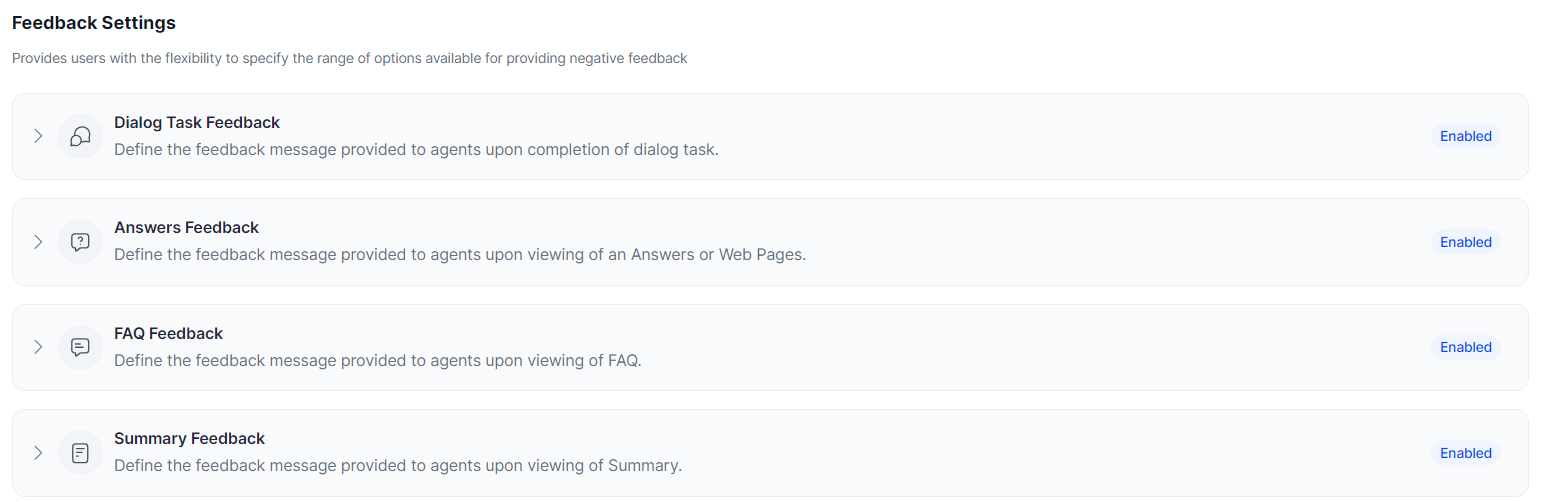
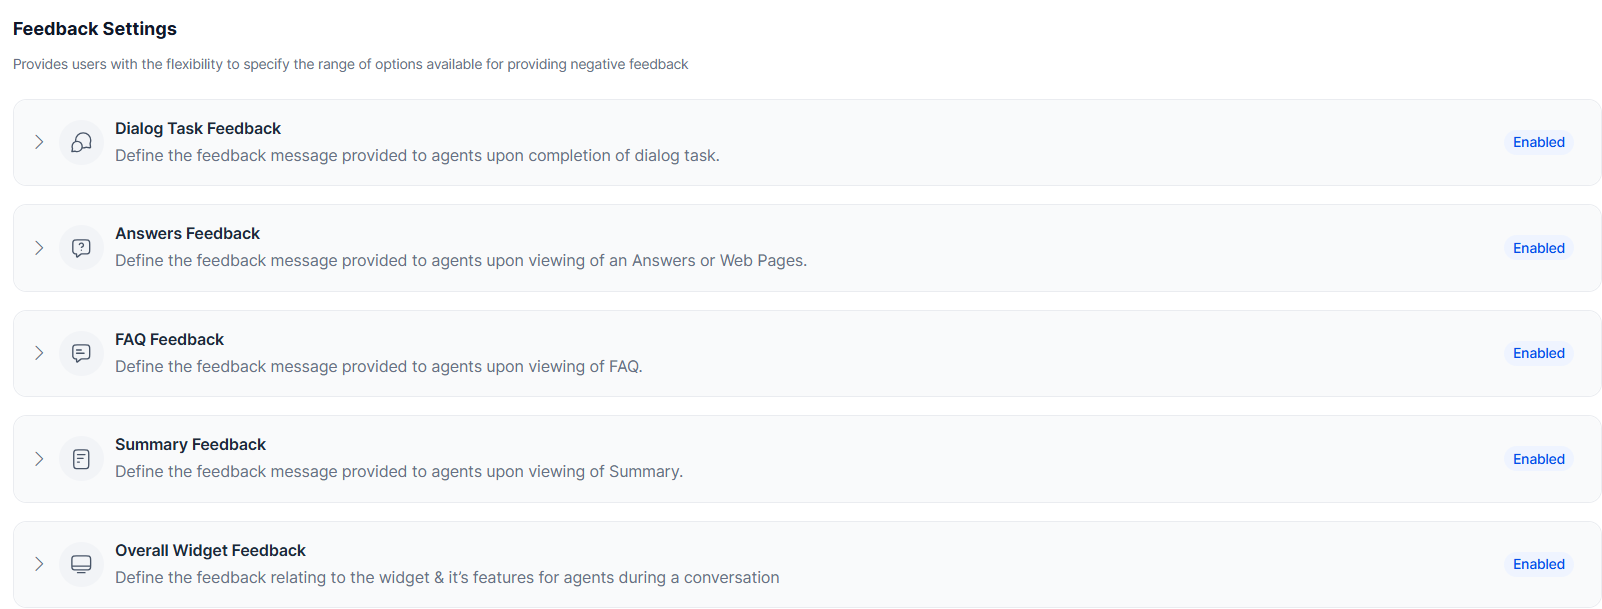
RN_11.17.0 updates

diff --git a/docs/xo/analytics/contact-center/agentai-dashboard.md b/docs/xo/analytics/contact-center/agentai-dashboard.md
@@ -1,15 +1,15 @@
-# **Overview**
+# Agent AI Widget Dashboard Overview
 
-The Agent AI Dashboard displays performance metrics of the Agent AI widget and the behavioral trends of the end users (agents and customers). You can filter data by channel or time period. Metrics include total sessions, widget suggestions, relevant suggestions, average widget suggestions used per session, help content and automations agents used to resolve customer issues, search behavior of agents, automation performance results, and agent feedback via likes and dislikes.
+The Agent AI Dashboard displays performance metrics of the Agent AI widget and the behavioral trends of the end users (agents and customers). You can filter data by channel or time period. Metrics include total sessions, widget suggestions, relevant suggestions, average widget suggestions used per session, help content and automation agents used to resolve customer issues, search behavior of agents, automation performance results, agent feedback via likes and dislikes, and the overall widget performance feedback (satisfied and unsatisfied percentage).
 
-To view the Dashboard, sign in to platform, and click **Agent AI** > **Analytics** > **Contact Center** > **Agent AI**.  
+To view the Dashboard, sign in to [platform](https://platform.kore.ai/){:target="_blank"}, and click **Agent AI** > **Analytics** > **Contact Center** > **Agent AI**.  
 <img src="../agentai-dashboard-images/agent-ai-dashboard-1.png" alt="agent-ai-dashboard" title="agent-ai-dashboard" style="border: 1px solid gray; zoom:80%;">
 
-# **Dashboard Filters**
+# Dashboard Filters
 
 The Agent AI Dashboard lets you filter the dashboard data over a period of time and of a specific channel.
 
-## **Filter by Time Period**
+## Filter by Time Period
 
 You can filter data based on a selected time duration. Click the **Calendar** icon at the top, select one of the options from the list, and then click **Apply**.  
 <img src="../agentai-dashboard-images/dashboard-filters-2.png" alt="dashboard-filters" title="dashboard-filters" style="border: 1px solid gray; zoom:80%;">
@@ -21,46 +21,46 @@ You can filter data based on a selected time duration. Click the **Calendar** ic
 * **Last 30 Days**: Data of the last 30 days.
 * **Custom Range**: Data of the selected “From” and “To” dates. This duration shouldn’t exceed 60 days.
 
-## **Filter by Channel**
+## Filter by Channel
 
 The default setting of the Agent AI Dashboard shows the combined data of all three channels – Voice, Chat, and Email. To filter data by channel, click the **All Channels** button on the top-right corner, and then click against a channel to select or clear it from the dropdown list.  
 <img src="../agentai-dashboard-images/dashboard-channel-filters-3.png" alt="dashboard-channel-filters" title="dashboard-channel-filters" style="border: 1px solid gray; zoom:60%;">
 
-### **Data on Widget Performance and Agent/Customer Behavior**
+### Data on Widget Performance and Agent/Customer Behavior
 
 This section lets you view and filter the Agent AI Widget’s performance data.
 
-## **Total Sessions**
+## Total Sessions
 
 It indicates the total number of uninterrupted interactions between the AI Agents and the end user (customer or agent) over a selected time period on a selected channel. Each session has been set for 15 minutes. If a session lasts beyond 15 minutes but less than 30 minutes, it gets calculated as two sessions. The red superscripted percentage with an arrow symbol indicates a decrease, and the green one indicates an increase in the percentage of number of sessions over a selected time period over a previous session. For example, a number 532 and a 5.2% with a red downwards arrow implies 532 sessions over the interval shown (say, a week) and a 5.2% decrease over the previous week.  
 <img src="../agentai-dashboard-images/dashboard-total-sessions-4.png" alt="dashboard-total-sessions" title="dashboard-total-sessions" style="border: 1px solid gray; zoom:40%;">
 
-## **Total Suggestions**
+## Total Suggestions
 
 It indicates the total number of suggestions from the Agent AI Widget (for example, “ask customer” and “tell customer”) to the agent. These suggestions include answers, automations, and FAQs. The red and green percentages indicate a decrease and increase in numbers, similar to the [Total Sessions](#total-sessions) section.  
 <img src="../agentai-dashboard-images/dashboard-total-suggestions-5.png" alt="dashboard-total-suggestions" title="dashboard-total-suggestions" style="border: 1px solid gray; zoom:60%;">
 
-## **Relevant Suggestions**
+## Relevant Suggestions
 
 The percentage of suggestions used by agents. This number is derived by dividing the total suggestions used by agents with the total suggestions, multiplied by 100.  
 <img src="../agentai-dashboard-images/dashboard-relevant-suggestions-6.png" alt="dashboard-relevant-suggestions" title="dashboard-relevant-suggestions" style="border: 1px solid gray; zoom:40%;">
 
-## **Average Suggestions Used per Session**
+## Average Suggestions Used per Session
 
 The average number of suggestions used per each session. This number is derived by dividing the total number of Agent AI Widget suggestions by the number of sessions.  
 <img src="../agentai-dashboard-images/dashboard-average-suggestions-used-7.png" alt="dashboard-average-suggestions-used" title="dashboard-average-suggestions-used" style="border: 1px solid gray; zoom:80%;">
 
-## **What are Your Customers Looking for**
+## What are Your Customers Looking for
 
 This section shows which Answers, FAQs, Dialogue Tasks, web suggestions, and other data sources are used to fulfill a customer’s needs. This list appears in popularity order–the most used item appears at the top. You can filter data based on values as All, Agent Initiated, and Agent AI Suggested values, with the default selection being All. You have four tabs at the top–All, Answers, FAQs, Automations, and Others–with All being the default tab. Click the respective tabs to view the top four Answers, FAQs, Automations, or others. Each item on the list has a number on its right that indicates the number of times that item has been invoked or used, and the percentage value is the number of times invoked or used divided by the number of times invoked for each tab.  
 <img src="../agentai-dashboard-images/dashboard-what-are-customers-looking-for-8.png" alt="what-are-customers-looking-for" title="what-are-customers-looking-for" style="border: 1px solid gray; zoom:60%;">
 
-## **What are your Agents looking for**
+## What are your Agents looking for
 
 This section shows what the agents are searching for. Agent AI gets this data through the **Ask a question** search box. Every time an agent enters an item in this search box, Agent AI records the data. The **Total Search Requests** shows the number of times agents have had search requests. The green and red percentage colors with an arrow symbol are similar to the [Total Sessions](#total-sessions) section. By default, the data is displayed in WordCloud, and you can change it to Tabular form.  
 <img src="../agentai-dashboard-images/dashboard-what-are-agents-looking-for-9.png" alt="what-are-agents-looking-for" title="what-are-agents-looking-for" style="border: 1px solid gray; zoom:80%;">
 
-## **Automation Performance**
+## Automation Performance
 
 This section shows the performance results (successfully completed, error encountered, terminated, etc.) of all Agent AI automations. The data is represented on a pie chart. To read the data, use the following pointers:
 
@@ -70,7 +70,7 @@ This section shows the performance results (successfully completed, error encoun
 * On the right, you find the total number and percentage out of the sum total for each item.  
 <img src="../agentai-dashboard-images/dashboard-automation-performance-data-10.png" alt="automation-performance-data" title="automation-performance-data" style="border: 1px solid gray; zoom:80%;">
 
-## **Agent Feedback**
+## Agent Feedback
 
 This section shows the top three most disliked automations by agents in descending order of dislike percentage. Agent AI gets this data by capturing the likes or dislikes at the end of a dialog task. You can have a detailed summary of Agent Feedback for dialog tasks, including “Not Helpful” feedback and Additional Comments. The detailed view of the “Not Helpful” feedback includes Responses, Additional Comments, and Counts. You must click **View All** to view further details of a dialog task.
 
@@ -82,8 +82,26 @@ This section shows the top three most disliked automations by agents in descendi
 * If the agent’s name is provided, the agent column appears for searching; otherwise, the conversation ID is available.  
 <img src="../agentai-dashboard-images/dashboard-agent-feedback-data-11.png" alt="agent-feedback-data" title="agent-feedback-data" style="border: 1px solid gray; zoom:80%;">
 
-## **Average Widget Usage (Third-Party Agent Desktop)**
+## Average Widget Usage (Third-Party Agent Desktop)
 
 This feature gives a graphical representation of the average amount of time agents spend on the Agent AI widget and is applicable only for the third-party agent desktops. You can use the Compare button to compare the data you have selected for a time period in an “n-1” formula. For example, if you have selected “30 days,” last 30 days’ data is compared with the previous 30 days’ data.  
 <img src="../agentai-dashboard-images/average-widget-usage-12.png" alt="average-widget-usage" title="average-widget-usage" style="border: 1px solid gray; zoom:80%;">
+
+## Overall Widget Feedback
+
+The **Overall Widget Feedback** section provides a summary of agent feedback on the Agent AI widget. It shows the Total Feedback, Participation Rate percentage, and the Satisfied versus Unsatisfied feedback percentage. At the individual conversation level, it provides details such as agent names, feedback reasons, comments, and conversation transcripts. This information helps administrators monitor agent experience, track areas where the widget performs well, and prioritize improvements to enhance usability and effectiveness.  
+<img src="../agentai-dashboard-images/Dashboard-overall-widget-feedback.png" alt="Dashboard-overall-widget-feedback" title="Dashboard-overall-widget-feedback" style="border: 1px solid gray; zoom:80%;">  
+
+In the above screenshot:  
+
+* The first section on the left shows the total number of agent feedback responses for the selected time period, along with the number and percentage of satisfied and unsatisfied feedback. Hovering over the color-coded chart (yellow for unsatisfied and green for satisfied) displays the same details. The percentages are calculated using the following formulas:
+    * **Unsatisfied**(%) = (Total unsatisfied feedback ÷ Total feedback) × 100
+    * **Satisfied**(%) = (Total satisfied feedback ÷ Total feedback) × 100
+* The second section on the top-right shows the Participation Rate, Satisfied, and Unsatisfied percentages. Note that you must count multiple feedback entries for a conversation as one while calculating the Participation Rate percentage. The formula is:
+    * **Participation Rate** (%) = (Conversations with feedback ÷ Total conversations) x 100
+* The third section shows conversation IDs, the number of agent feedback responses, and the percentage of satisfied and unsatisfied feedback for each conversation.
+    * To view the details of a conversation, click the **external link icon** next to a conversation ID.  
+     <img src="../agentai-dashboard-images/dashboard-conversation-details.png" alt="Dashboard-conversation-details" title="Dashboard-conversation-details" style="border: 1px solid gray; zoom:80%;">  
+    * Details such as agent name, selected feedback reason, and added comments display along with the actual conversation:  
+        <img src="../agentai-dashboard-images/dashboard-conversationid-level-feedback-details.png" alt="dashboard-conversationid-level-feedback-details" title="dashboard-conversationid-level-feedback-details" style="border: 1px solid gray; zoom:80%;">
 

diff --git a/docs/xo/agentai/configuration/feedback-settings.md b/docs/xo/agentai/configuration/feedback-settings.md
@@ -1,73 +1,65 @@
 
-# Feedback Settings
+# Feedback Settings 
 
-For improved processing and accurate identification of reasons for receiving a “thumbs down”, Admins can now configure a list of negative feedback messages for agents to choose from. They can also include a comment box for agents to add additional comments. These options appear in the widget after agents click the “thumbs down” icon at the end of a Dialog Task, after each answer and FAQ, and after the automatic summary generation. Admins can also change the feedback message language by selecting one from the available language list.
+The Feedback Settings section lets you configure how agents provide feedback on the Agent AI widget. It includes two types of feedback: 
 
-When agents click the “thumbs down” icon, they get a list of predefined feedback messages and a comment box to add any additional input. Admins configure these messages, select their language, and decide whether these messages and comment boxes appear on the widget.
+* **Context-Specific Feedback**: Configure up to six predefined negative feedback messages for Dialog Tasks, Answers, FAQs, and Summaries, but enable only five per subsection at a time. To enable a sixth, you must first disable another. These options appear in the widget after agents select the “thumbs down” icon. You can edit these messages (limited to 25 words each), include a comment box for any additional input, and set the display language.  
+* **Overall Widget Feedback**: Configure up to six positive and six negative feedback messages, but enable only five from each category at a time. To enable a sixth, you must first disable another. You can also choose to display or hide an additional comment box and select a display language. By default, this feature remains in disabled status.  
 
 ## **Configure Feedback Messages**
 
-The Feedback Settings section has four subsections – Dialog Task Feedback, Answers Feedback, FAQ Feedback, and Summary Feedback – and each of these subsections comprises six feedback messages. You can edit these feedback messages by clicking the “edit” button against any of the default feedback messages. Note that the feedback messages should be limited to 25 words only.
+The Feedback Settings section has five subsections–Dialog Task Feedback, Answers Feedback, FAQ Feedback, Summary Feedback, and Overall Widget Feedback. These subsections include predefined feedback messages, which you can edit by clicking the “edit” button next to them. 
 
 ### **Steps to Configure Feedback Messages**
 
 1. Sign in to **XO Platform**.
 2. Go to **Agent AI** > **Configuration** > **Feedback Settings**.
     <img src="../feedback-settings-images/feedback-settings-main-page-1.png" alt="feedback-settings-main-page" title="feedback-settings-main-page" style="border: 1px solid gray; zoom:80%;">
-3. Click to expand any subsection – **Dialog Task Feedback**, **Answers Feedback**, **FAQ Feedback**, or **Summary Feedback**.
-4. Click the “edit” icon against any feedback message.
+3. Click to expand any subsection – **Dialog Task Feedback**, **Answers Feedback**, **FAQ Feedback**, **Summary Feedback**, or **Overall Widget Feedback**.
+4. Use the toggle to enable or disable the selected subsection.
+    * For **Overall Widget Feedback**, click to expand the **Positive** or **Negative Feedback** selections: 
+    <img src="../feedback-settings-images/positive-negative-feedback-subsection.png" alt="positive-negative-feedback-subsection" title="positive-negative-feedback-subsection" style="border: 1px solid gray; zoom:80%;"> 
+
+5. Click the “edit” icon against any feedback message.
     <img src="../feedback-settings-images/feedback-messages-editing-2.png" alt="feedback-messages-editing" title="feedback-messages-editing" style="border: 1px solid gray; zoom:80%;">
-5. Configure the required feedback message, and press **Enter** to save it.
+6. Configure the required feedback message, and press **Enter** to save it.
     <img src="../feedback-settings-images/configuring-a-feedback-message-3.png" alt="configuring-a-feedback-message" title="configuring-a-feedback-message" style="border: 1px solid gray; zoom:80%;">
 ## **Enable or Disable Feedback Messages**
 
-Only the Enabled feedback messages appear in the Agent AI widget for agent’s selection. You can enable or disable any feedback message, as required. Note that you can enable only five out of the default six feedback messages at any given time.
+Only **Enabled** feedback messages appear in the Agent AI widget for agents to select. You can enable or disable any five messages out of the default six at any given time. To enable or disable a feedback message:
 
-### **Steps to Enable or Disable Feedback Messages**
-
-1. Sign in to **XO Platform**.
-2. Go to **Agent AI** > **Configuration** > **Feedback Settings**.
-3. Click to expand any subsection – Dialog Task Feedback, Answers Feedback, FAQ Feedback, or Summary Feedback.
-4. Click the **Enable**/**Disable** toggle on the right to enable or disable a feedback message.
-    <img src="../feedback-settings-images/enable-disable-feedback-messages-4.png" alt="enable-disable-feedback-messages" title="enable-disable-feedback-messages" style="border: 1px solid gray; zoom:80%;">
-5. Click **Save**.
+1. Click the **Enable**/**Disable** toggle against a feedback message.
+    <img src="../feedback-settings-images/enable-disable-feedback-messages-4.png" alt="enable-disable-feedback-messages" title="enable-disable-feedback-messages" style="border: 1px solid gray; zoom:80%;">  
+2. Click **Save**.
 
 ## **Enable or Disable the Additional Comments Box**
 
-The “Display additional comment” box appears in the Agent AI widget, only if you select it in the Feedback Settings section.
+The **Display additional comment** box appears in the Agent AI widget, only if you select it in the Feedback Settings section. To enable or disable it:
 
-### **Steps to Enable or Disable the Additional Comment box**
-
-1. Sign in to **XO Platform**.
-2. Go to **Agent AI** > **Configuration** > **Feedback Settings**.
-3. Click to expand any subsection – Dialog Task Feedback, Answers Feedback, FAQ Feedback, or Summary Feedback.
-4. Select or clear the **Display additional comment** box.
+1. Select or clear the **Display additional comment** box.
     <img src="../feedback-settings-images/display-additional-comment-box-enable-disable-5.png" alt="display-additional-comment-box-enable-disable" title="display-additional-comment-box-enable-disable" style="border: 1px solid gray; zoom:80%;">
-5. Click **Save**.
+2. Click **Save**.
 
 ## **Customize Language for the Feedback Messages**
 
-The selected app's language appears by default as the feedback messages language. You can select the display language by selecting one fro the available list.
+The selected app's language appears by default as the feedback messages language. You can select or change the display language of the feedback messages from the available list. To select or change the language: 
 
-### **Steps to Change the Feedback Messages Language**
-
-1. Sign in to **XO Platform**.
-2. Go to **Agent AI** > **Configuration** > **Feedback Settings**.
-3. Click to expand any subsection – Dialog Task Feedback, Answers Feedback, FAQ Feedback, or Summary Feedback.
 4. Click the **language selection dropdown arrow** beside the **Display additional comment** box.
 5. Select a language, and click **Save**.
     <img src="../feedback-settings-images/change-feedback-message-language-6.png" alt="change-feedback-message-language" title="change-feedback-message-language" style="border: 1px solid gray; zoom:80%;">
 
 ## **Feedback Settings appearance in the Agent AI Widget**
 
-The negative feedback messages and additional comment box appear in the Agent AI widget only if you select and enable them in the XO Platform. If you don’t select or enable any of these options, only the “thumbs up” and “thumbs down” icons appear in the widget. If the feedback messages are enabled and the additional comment box is selected, the following options appear in the widget:
+The feedback messages and additional comment box appear in the Agent AI widget only if you select and enable them in the XO Platform. If you don’t, only the “thumbs up” and “thumbs down” icons appear in the widget. If enabled and selected, the following options appear in the widget:
 
 * **Dialog Task Feedback**: Upon the completion of a dialog task.
 * **Answers Feedback**: Upon viewing an answer or a web page.
 * **FAQ Feedback**: Upon viewing of an FAQ.
 * **Summary Feedback**: Upon the appearance of auto-generated summary.
+* **Overall Widget Feedback**: Upon clicking the "more (ellipsis)" button on the right-bottom of the widget.   
+    <img src="../feedback-settings-images/overall-widget-feedback-button.png" alt="overall-widget-feedback-button" title="overall-widget-feedback-button" style="border: 1px solid gray; zoom:80%;">
 
-The following screenshot represents a list of the feedback messages with one of them being selected (in blue) by the agent:
+The following screenshot represents a list of the feedback messages, with one of them being selected (in blue) by the agent:
 
 <img src="../feedback-settings-images/feedback-message-display-in-widget-7.png" alt="feedback-message-display-in-widget" title="feedback-message-display-in-widget" style="border: 1px solid gray; zoom:80%;">
 

diff --git a/docs/xo/agentai/agent-experience/agent-assist-widget-v3.md b/docs/xo/agentai/agent-experience/agent-assist-widget-v3.md
@@ -26,9 +26,9 @@ The following features are available in the Agent AI widget:
 
 ## Widget Tabs
 
-The widget consists of four tabs–Search, My AI Agent (Bot), Assist, Transcript (for Voice channel)–and two buttons (Settings and theme) to help agents perform different tasks and activities.
+The widget consists of five tabs—Search, My AI Agent (Bot), Assist, Transcript (for Voice channel), More–and two buttons (Settings and theme) to help agents perform different tasks and activities.
 
-**Agent AI tabs:**
+**Agent AI tabs**:
 
 <img src="../WidgetContentUpdate_3.3.0/agent-assist-widget-tabs.png" alt="agent-assist-widget-tabs.png" title="agent-assist-widget-tabs.png" style="border: 1px solid gray; zoom:80%;">
 
@@ -202,6 +202,31 @@ Scenario 2: Smart Assist Application Suite
 
 The Transcription feature is available only for the voice calls. When a call begins, the Transcript tab displays the real-time transcription of conversations between agents and customers in text format. The transcriptions are available for the agent throughout the session and provide a historical record for future reference. Agents can read through and copy/paste it. If the Auto-scroll Widget Content toggle is enabled in the Widget Settings page, the system automatically navigates to the last message content for new utterances. Agents can manually scroll up and down to read through the content.  
 <img src="../widget-images/transcript-tab.png" alt="transcript-tab.png" title="transcript-tab.png" style="border: 1px solid gray; zoom:80%;">
+
+### More Tab
+
+The **More** (ellipsis) button lets agents share overall feedback on the Agent AI widget. Agents can select up to five positive or negative options and add comments (if the comment box is enabled). 
+!!! note
+
+    If the conversation is transferred, feedback from both agents is saved in the logs. 
+
+#### Steps to Submit Overall Widget Feedback
+
+1. Click the **More** (ellipsis) button > **Feedback**.  
+    <img src="../widget-images/overall-widget-feedback-button.png" alt="overall-widget-feedback-button" title="overall-widget-feedback-button" style="border: 1px solid gray; zoom:80%;">  
+
+2. Click one of the tabs—**Satisfied** or **Unsatisfied**. 
+
+    !!! note
+
+        Select **Satisfied** for positive and **Unsatisfied** for negative feedback messages.  
+
+    <img src="../widget-images/positive-feedback.png" alt="positive-feedback" title="positive-feedback" style="border: 1px solid gray; zoom:80%;">  
+
+3. Select the feedback messages from the list, and enter any additional comments. In the following screenshot, agent has selected the **Unsatisfied** tab, the **Irrelevant Dialogs** message, and entered a comment:  
+    <img src="../widget-images/additional-comments.png" alt="widget-images/additional-comments" title="widget-images/additional-comments" style="border: 1px solid gray; zoom:80%;">  
+
+4. Click **Submit**.
 
 ### Settings
 

diff --git a/docs/xo/release-notes/11.x/agent-ai.md b/docs/xo/release-notes/11.x/agent-ai.md
@@ -15,11 +15,10 @@ The Overall Widget Feedback feature allows admins to configure feedback options 
 * Select a display language.
 * Configure up to six positive and six negative feedback options.
 * Enable up to five options from each category simultaneously.
-* Display or hide an additional comment box.
+* Display or hide an additional comment box.  
+[Learn more :octicons-arrow-right-24:](../../agentai/configuration/feedback-settings.md) 
 
-**Enhanced Dashboard**
-
-The **Dashboard** > **Overall Widget Feedback** section displays feedback metrics submitted by agents. 
+Enhanced Dashboard: The **Dashboard** > **Overall Widget Feedback** section displays feedback metrics submitted by agents. [Learn more :octicons-arrow-right-24:](../../analytics/contact-center/agentai-dashboard.md/#overall-widget-feedback)
 
 <font size="4">Integration Enhancements</font>
 
